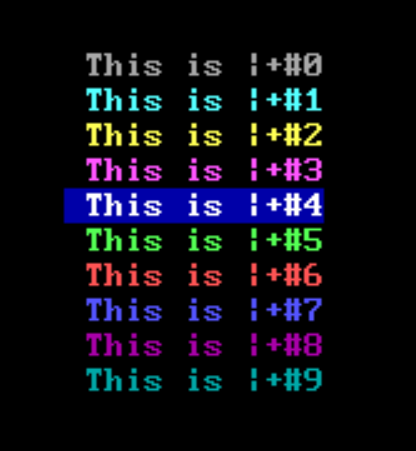
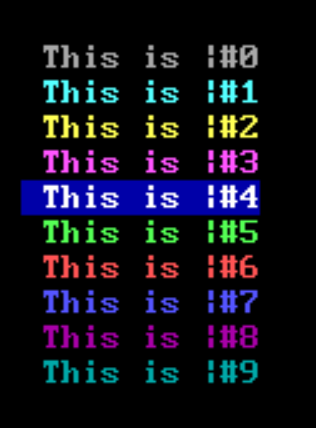
minor updates about pipes
some more details about using |NN colors and an edited png to show |#N properly

Changed region(s): [[0.057, 0.0911, 0.8259, 0.9112]]

diff --git a/docs/displaying_text.md b/docs/displaying_text.md
@@ -52,15 +52,21 @@ These are the default 0-9 Pipe colors used in the menu system and other UI pages
 ```|#5``` when you want to start GREEN and then ```|#0``` to switch back to GRAY. Look in some of the .MSG files
 in \wwiv\gfiles for more samples.
 
-**Note:** that the ```+``` sign should not be used when you add the code to a file, I merely used that so the text would show up. So you would use ```|#0``` NOT ```|+#0```.
-
 ![defPipeColors](/screenshots/wwivbbs/defaultPipeColors.png)
 
+
 #### Pipe Colors
+
+Two-digit pipe colors are a more widely-accepted "normal" way to define colors.  If you use
+them in your messages, they are the most likely to be displayed properly on other systems
+that might see them (gated subs, etc).
 
 Let NN be a 2 digit color code, and 
 
 ```|NN ``` is the way to display a pipe code to set the color.
+
+You can stack the foreground and background colors, too.  If you want to have
+White on Red, for example, you can use ```|15|20```
 
 | NN | Foreground Color | BackGround Color
 |----|------------------|-----------------|
@@ -88,6 +94,7 @@ Let NN be a 2 digit color code, and
 | 21 | | Magenta
 | 22 | | Brown
 | 23 | | Gray
+
 
 **Note:** WWIV 5.0 supports background color setting as ```|B##```, but since no other
   BBS does too, use of this code is deprecated in 5.1 and will be removed in WWIV 5.2.
